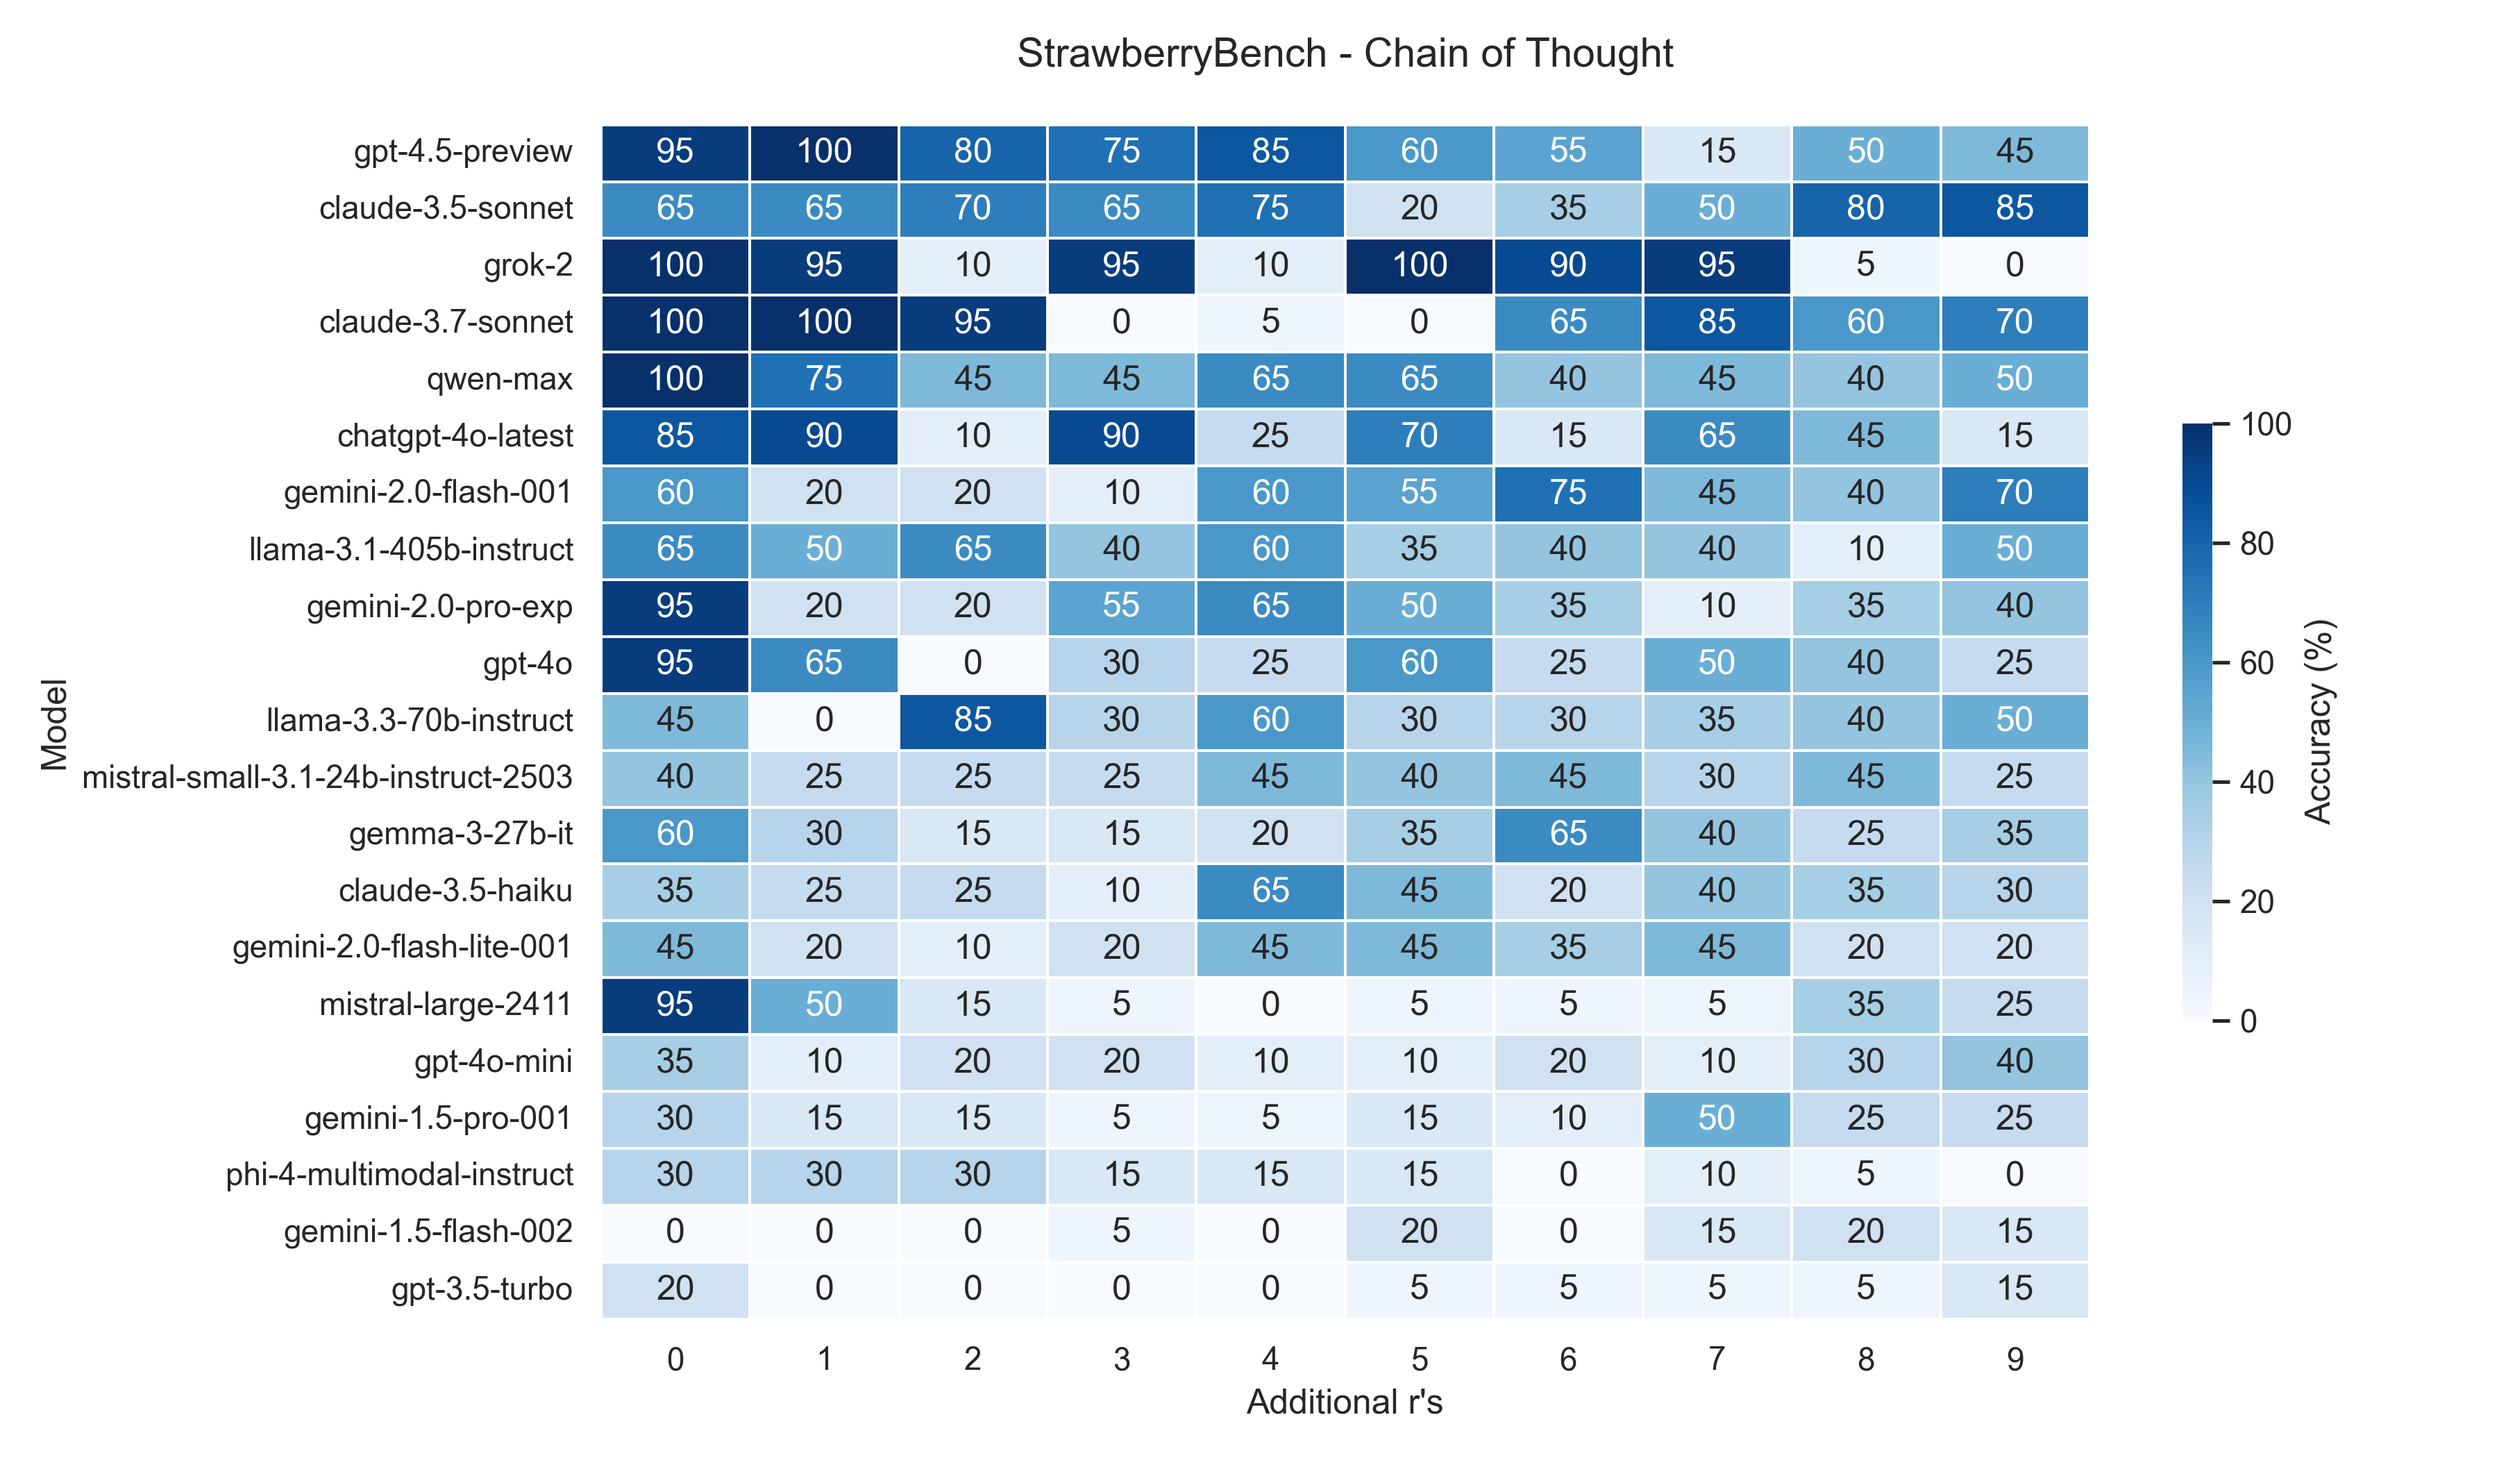
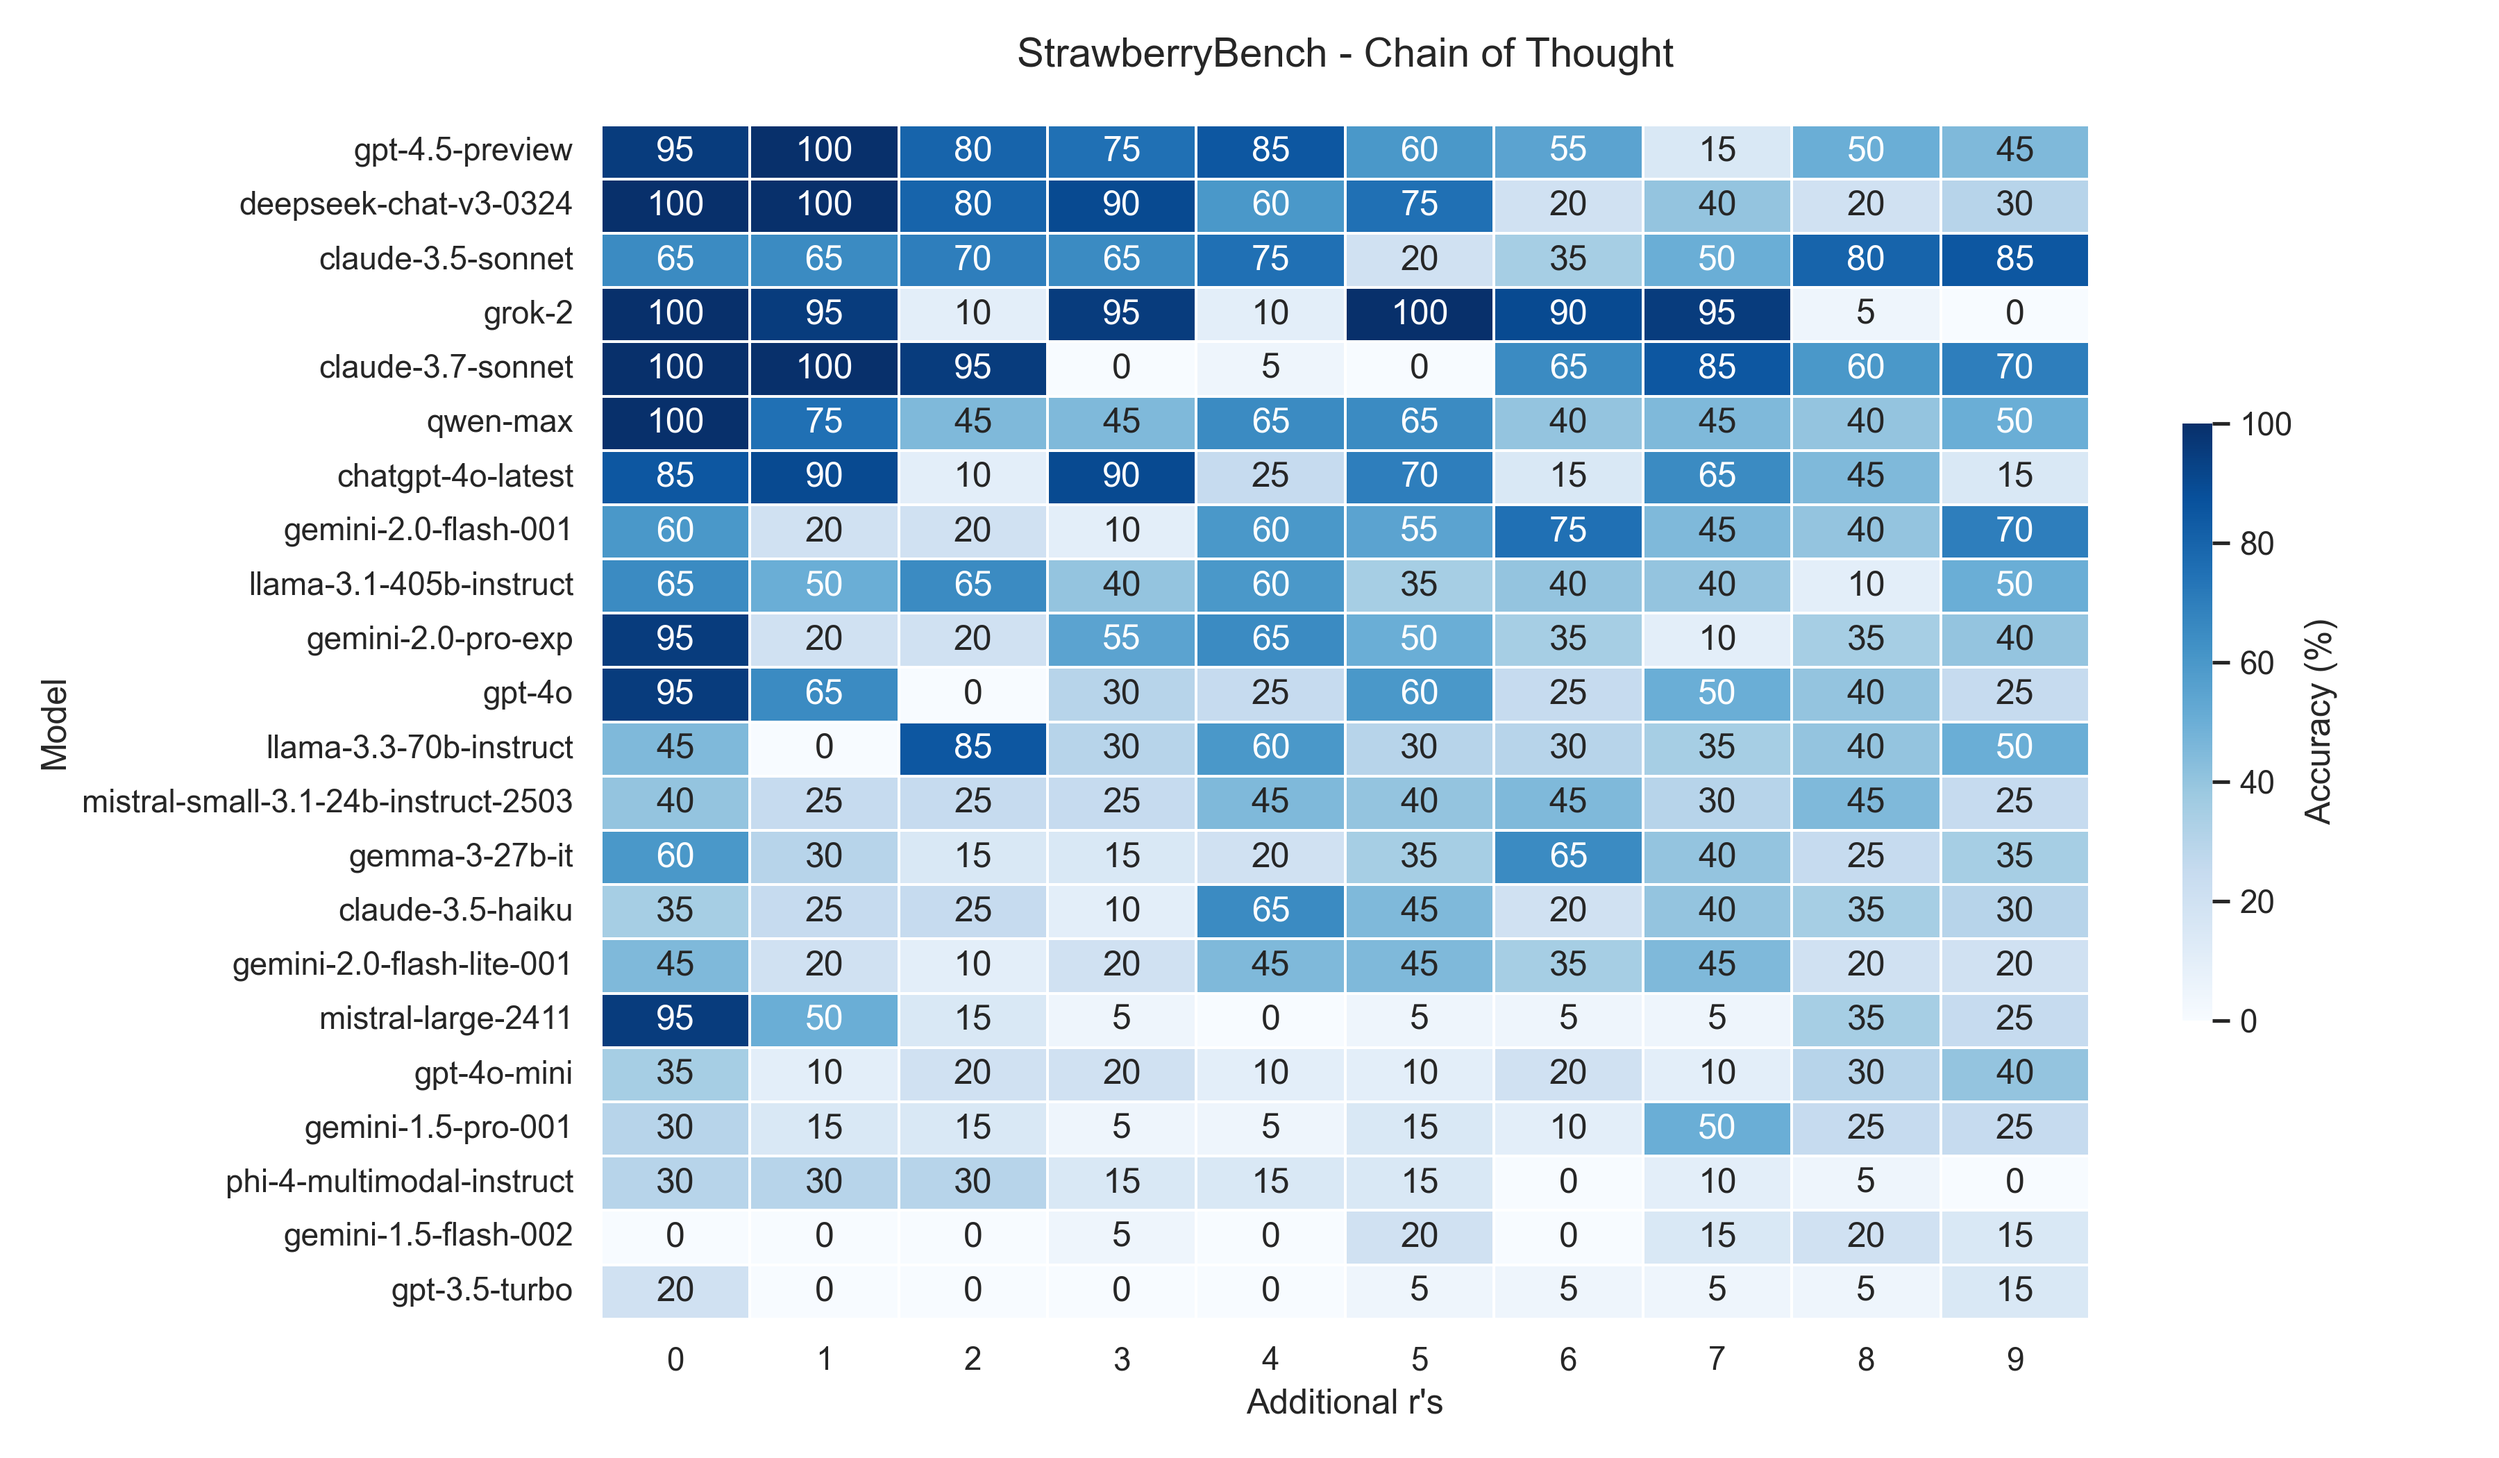
Add deepseek v3

Changed region(s): [[0.0311, 0.0929, 0.84, 0.8667], [0.2489, 0.8667, 0.28, 0.8976]]

diff --git a/config.py b/config.py
@@ -2,6 +2,7 @@ MODELS = [
     # { "name": "anthropic/claude-3.5-haiku", "client": "openrouter", "type": "nocot" },
     # { "name": "anthropic/claude-3.5-sonnet", "client": "openrouter", "type": "nocot" },
     # { "name": "anthropic/claude-3.7-sonnet", "client": "openrouter", "type": "nocot", "settings": { "rate_limit": 25 } },
+    # { "name": "deepseek/deepseek-chat-v3-0324", "client": "openrouter", "type": "nocot" },
     # { "name": "google/gemini-1.5-flash-002", "client": "google_vertex", "type": "nocot" },
     # { "name": "google/gemini-1.5-pro-001", "client": "google_vertex", "type": "nocot" },
     # { "name": "google/gemini-2.0-flash-001", "client": "google_vertex", "type": "nocot" },
@@ -21,9 +22,11 @@ MODELS = [
     # { "name": "qwen/qwen-max", "client": "openrouter", "type": "nocot", "settings": { "rate_limit": 30 } },
     # { "name": "x-ai/grok-2-1212", "client": "openrouter", "type": "nocot" },
 
+
     # { "name": "anthropic/claude-3.5-haiku", "client": "openrouter", "type": "cot" },
     # { "name": "anthropic/claude-3.5-sonnet", "client": "openrouter", "type": "cot" },
     # { "name": "anthropic/claude-3.7-sonnet", "client": "openrouter", "type": "cot", "settings": { "rate_limit": 25 } },
+    # { "name": "deepseek/deepseek-chat-v3-0324", "client": "openrouter", "type": "cot" },
     # { "name": "google/gemini-1.5-flash-002", "client": "google_vertex", "type": "cot" },
     # { "name": "google/gemini-1.5-pro-001", "client": "google_vertex", "type": "cot" },
     # { "name": "google/gemini-2.0-flash-001", "client": "google_vertex", "type": "cot" },
